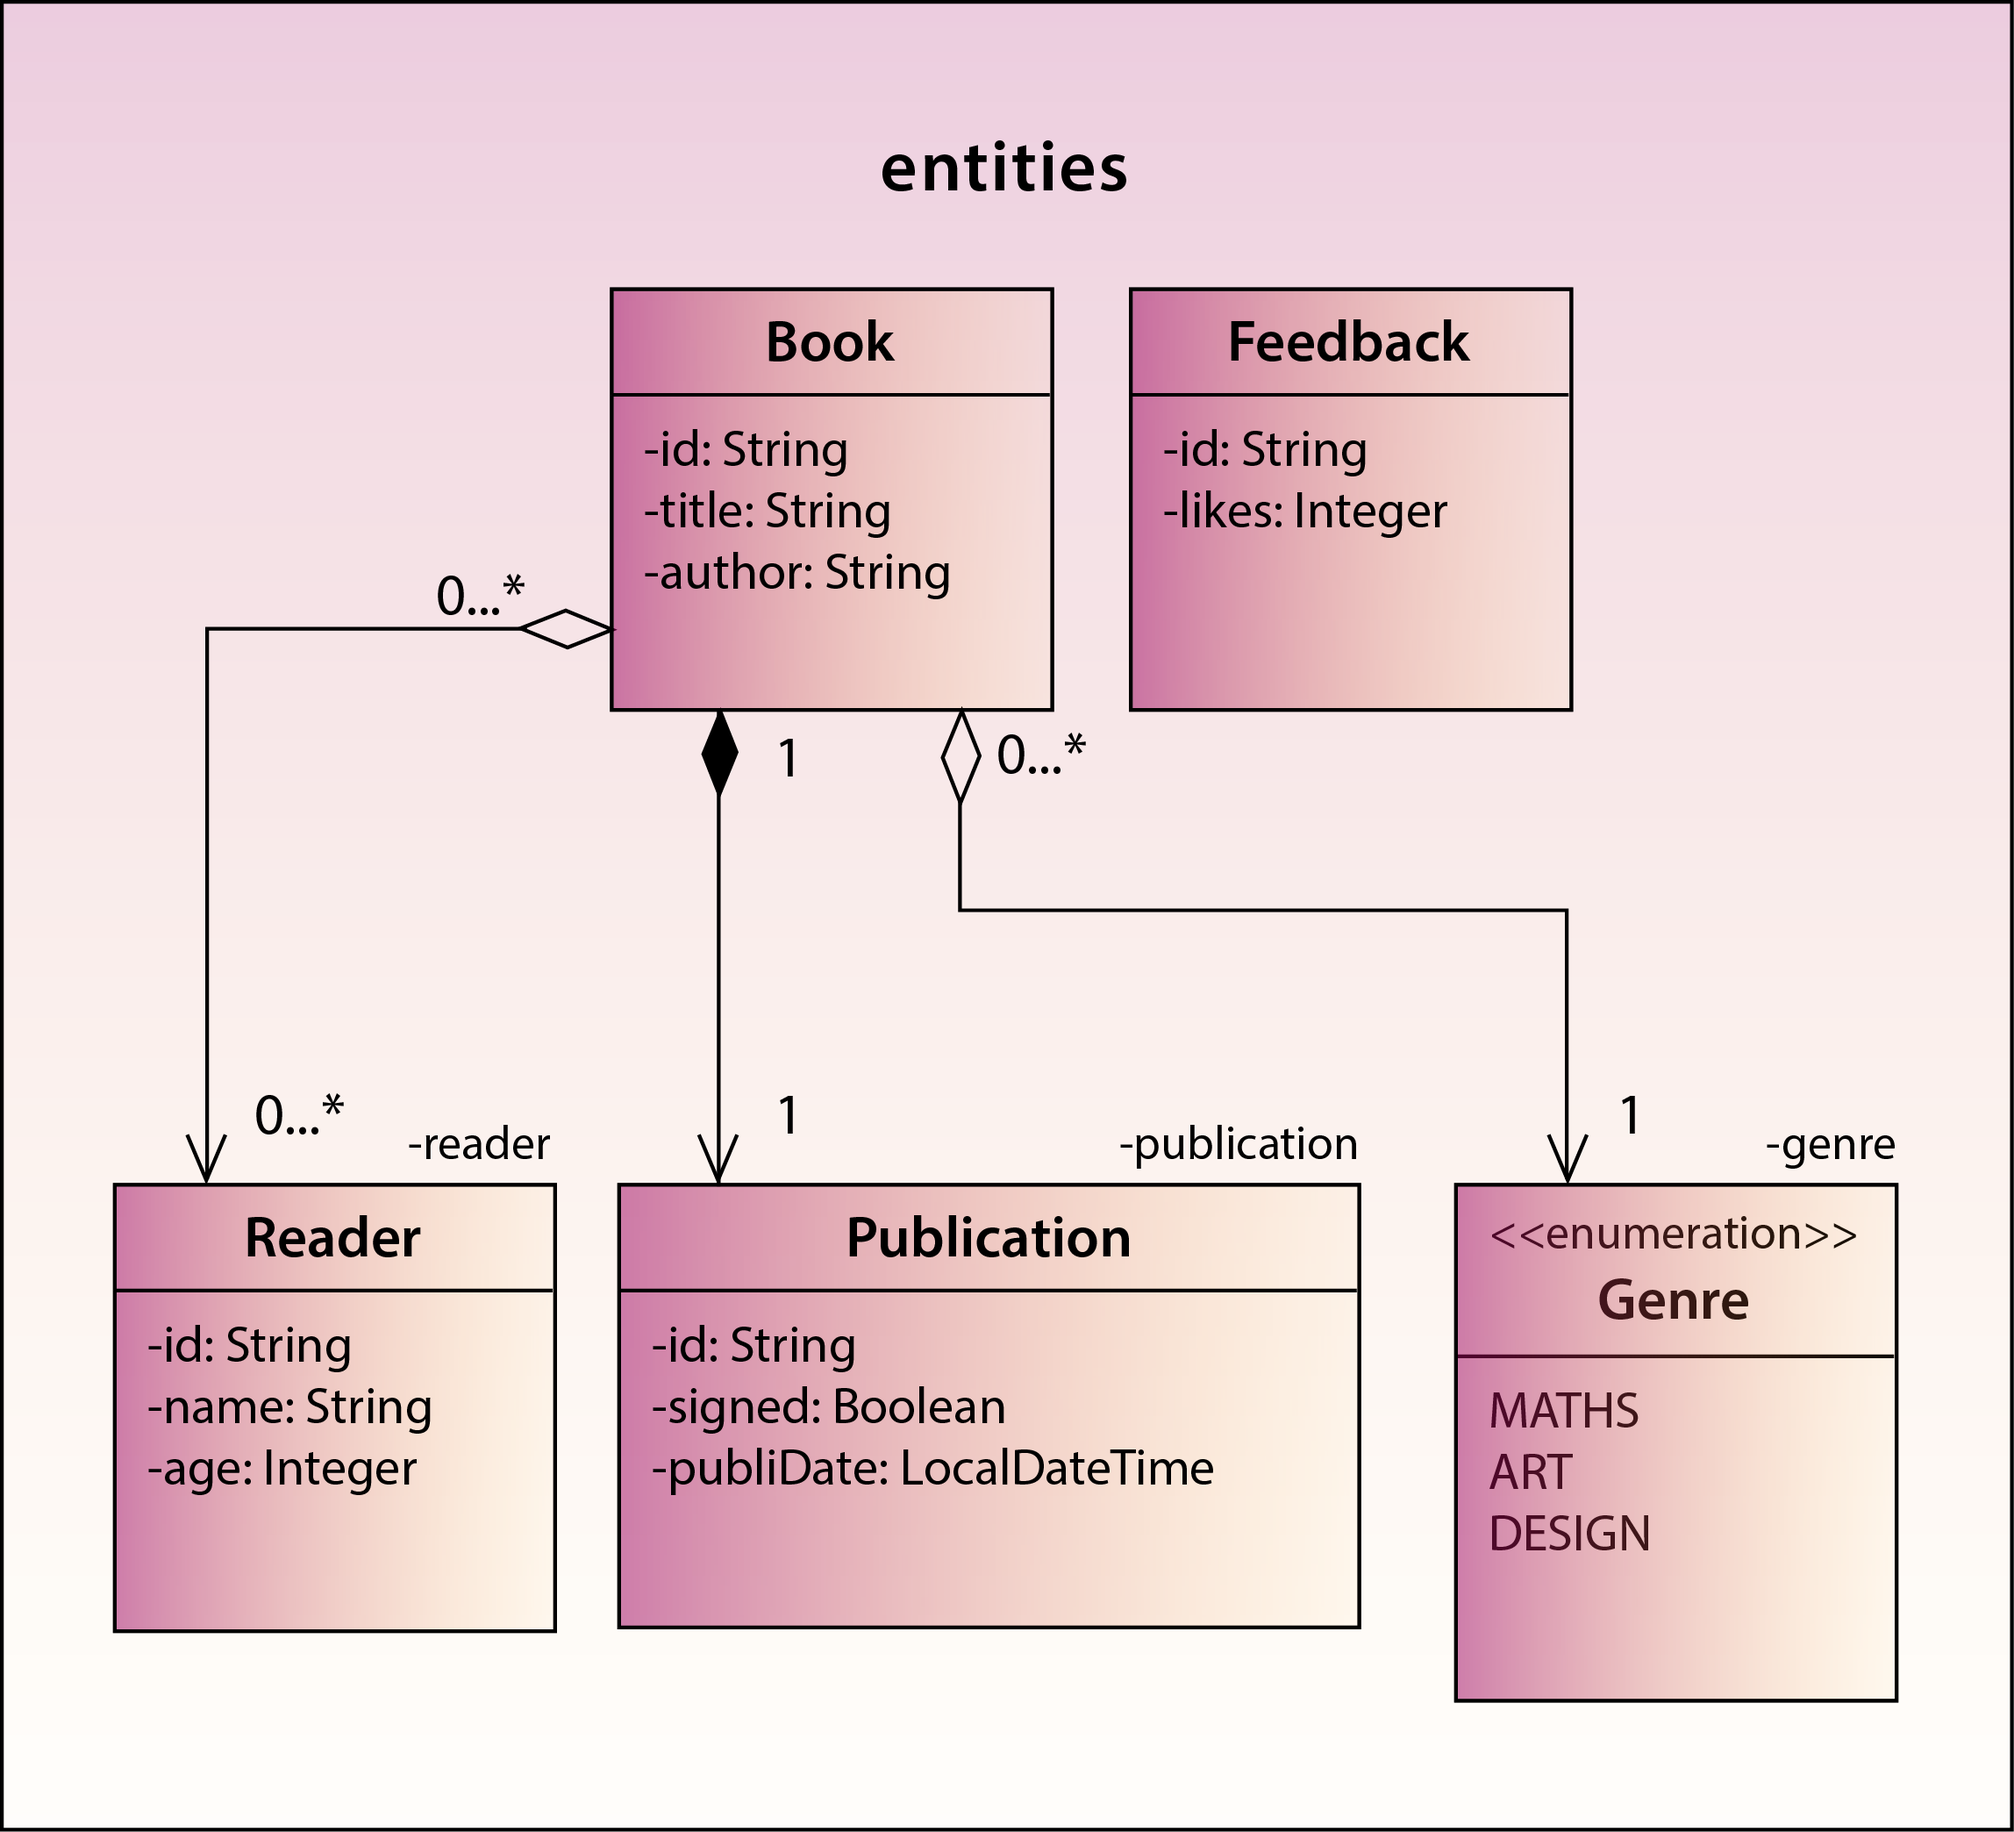
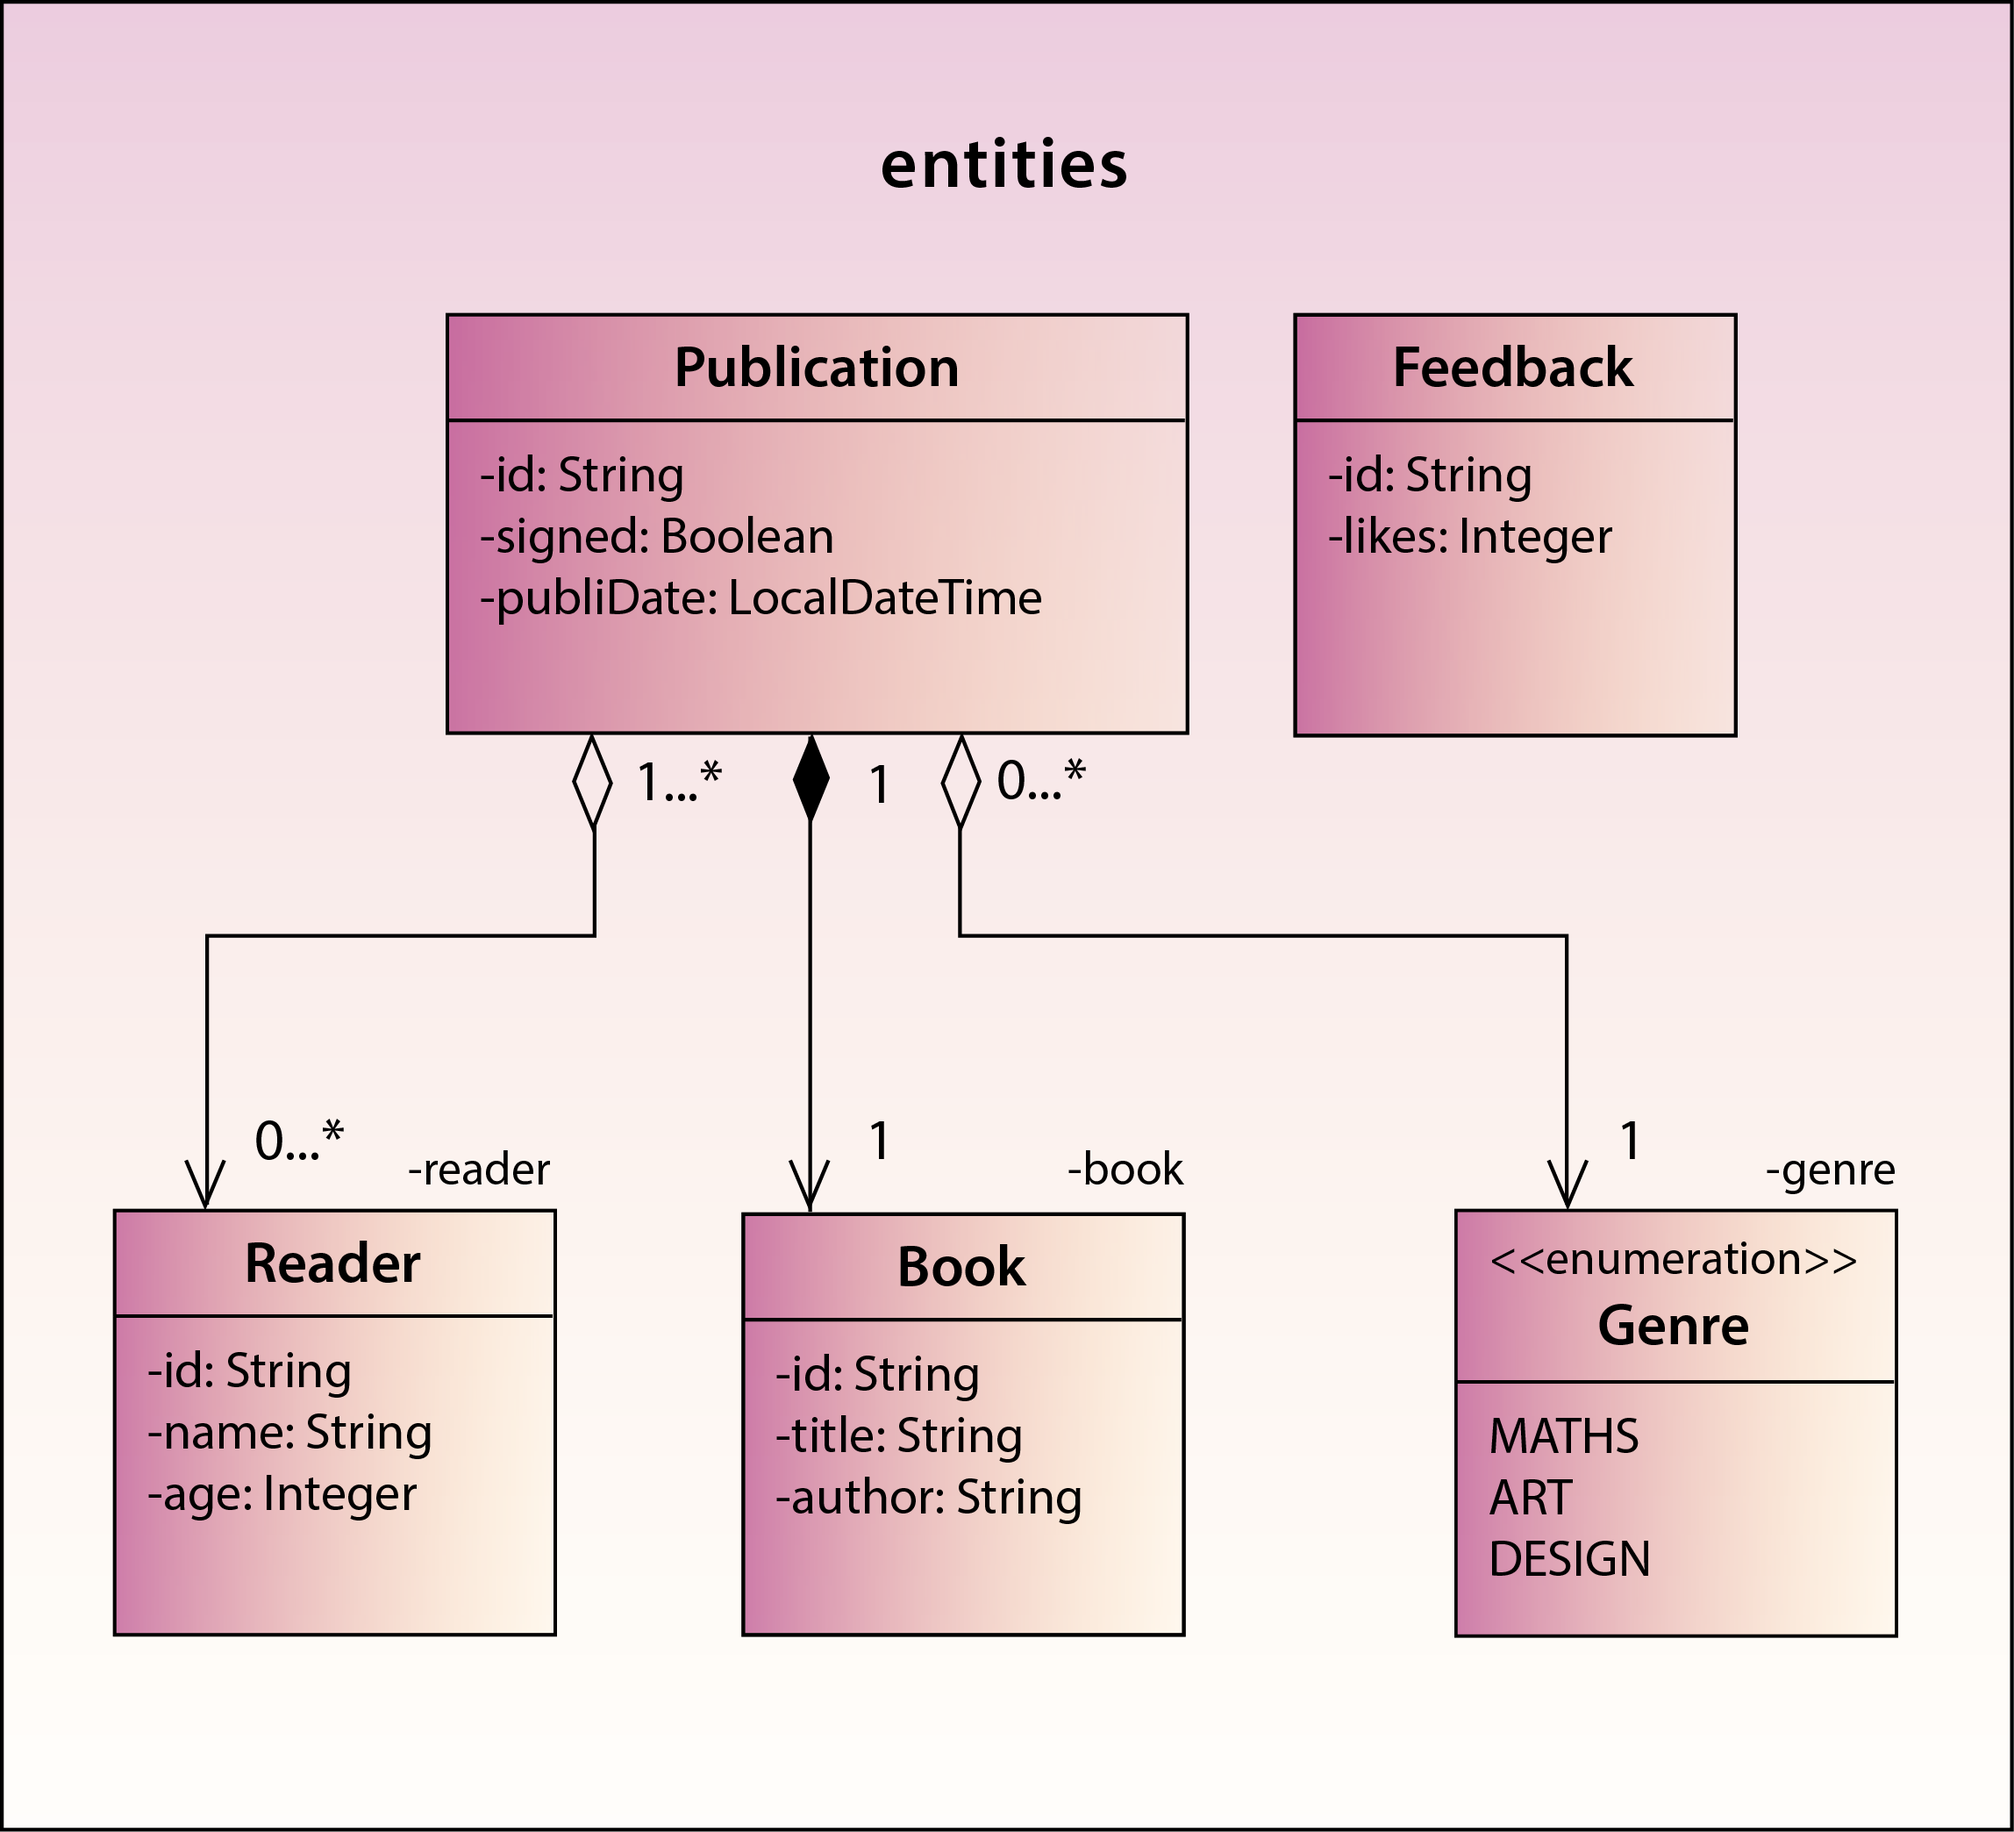
Project description updated

diff --git a/README.md b/README.md
@@ -4,20 +4,25 @@
 
 ### Descripción
 Crear 4 entidades y aplicarle los patrones que se piden.
+El ejemplo que se plantea trata de una librería en la que se hacen publicaciones.
+* Cada publicación está asociado a 0 o varios lectores. Un lector sigue 1 o varias publicaciones.
+* Cada publicación contiene un libro.
+* Cada publicación es de un género. De cada género hay 0 o varias publicaciones.
+* Feedback recoge opiniones de la librería.
 
 ### Entidades
 * Book `id : String`  `title : String`  `author : String`
 * Reader `id : String`  `name : String`  `age : Integer`
-* Publication `id : String`, `signed : Boolean`, `publiDate : LocalDateTime`
-* enum Genre `MATHS`  `ARTS  `DESIGN`
+* enum Genre `MATHS`  `ARTS`  `DESIGN`
+* Publication `id : String`, `signed : Boolean`, `publiDate : LocalDateTime`, `Book : book`,  `List<Reader> : readers`, Genre : genre`
 * Feedback id `String`, likes `Integer`
 #### Diseño de entidades
 ![UML DIAGRAM](http://https://github.com/lelepompom/APAW.ECP1.SandraOrtega/blob/master/UML.png)
 
 ### Patrones
-(+2). **Factoría** con patrón **Singleton** de la entidad. Se almacenan y se buscan las entidades por su id de la entidad principal, como entidad principal se refiere a la entidad que posee la relación, pero la factoría no los crea, solo gestiona los objetos. Debe ir con test de prueba
-(+2). **Builder** de la entidad. Debe ir con test de prueba
-(+2). Patrón **Composite** de la entidad . La entidad no puede ser cambiada de su interfaz publico dado. Mediante el método view() se visualiza la id si es una entidad y name (String) si es una agrupación. Debe ir con test de prueba
-(+2). Patrón **Strategy**. Buscar, comprender , explicar y realizar un ejemplo propio de su funcionamiento
-(+2). A la Factoría anterior,  aplicarle el patrón **Observer**, para que cada vez que se añade un objeto nuevo, provoque un evento.  Debe ir con test de prueba
+* (+2). **Factoría** con patrón **Singleton** de la entidad. Se almacenan y se buscan las entidades por su id de la entidad principal, como entidad principal se refiere a la entidad que posee la relación, pero la factoría no los crea, solo gestiona los objetos. Debe ir con test de prueba
+* (+2). **Builder** de la entidad. Debe ir con test de prueba
+* (+2). Patrón **Composite** de la entidad . La entidad no puede ser cambiada de su interfaz publico dado. Mediante el método view() se visualiza la id si es una entidad y name (String) si es una agrupación. Debe ir con test de prueba
+* (+2). Patrón **Strategy**. Buscar, comprender , explicar y realizar un ejemplo propio de su funcionamiento
+* (+2). A la Factoría anterior,  aplicarle el patrón **Observer**, para que cada vez que se añade un objeto nuevo, provoque un evento.  Debe ir con test de prueba
 
